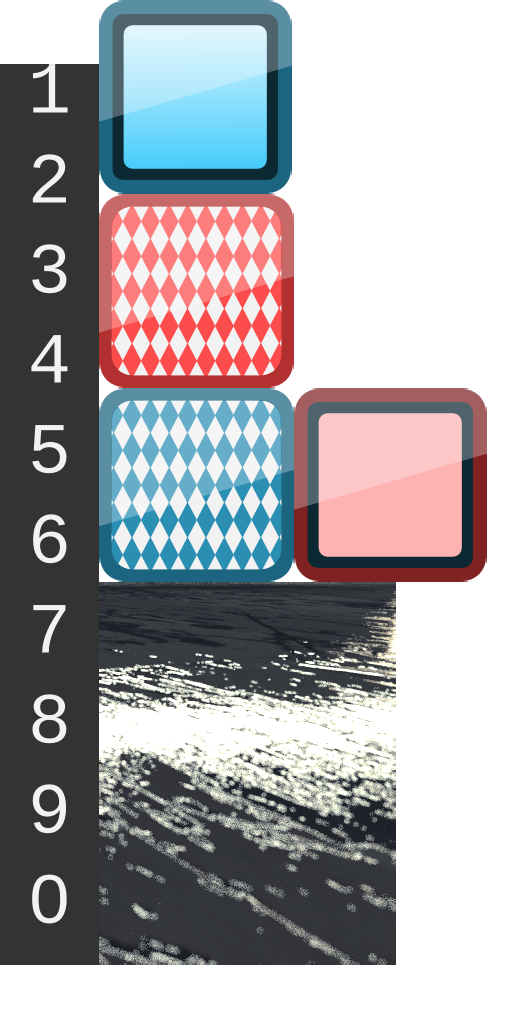
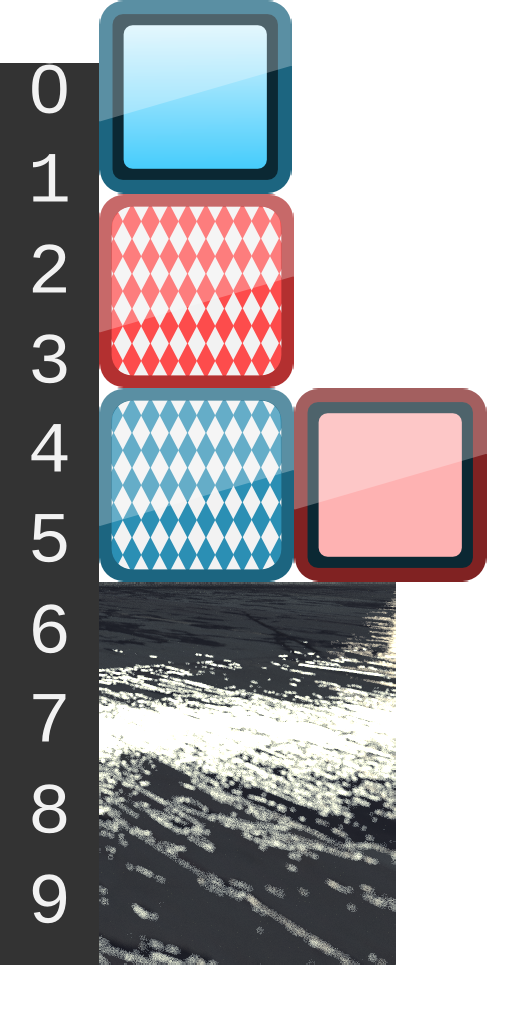
a

diff --git a/Calculate/src/com/simplyapped/calculate/screen/levelintro/StageIntroScreen.java b/Calculate/src/com/simplyapped/calculate/screen/levelintro/StageIntroScreen.java
@@ -85,8 +85,6 @@ public class StageIntroScreen extends DefaultScreen
 	}
 	
 	private Label title;
-	private Label targetTitle;
-	private Label target;
 	private GameState state = GameStateFactory.getInstance();
 
 	private Skin skin = new Skin(Gdx.files.internal("data/stageintroscreen.json"));
@@ -97,6 +95,7 @@ public class StageIntroScreen extends DefaultScreen
 	private float finishWait;
 	private Cell<?> titleCell;
 	private List<Integer> selectedNumbers = new ArrayList<Integer>();
+	private Table targetTable;
 	
 	public StageIntroScreen(DefaultGame game)
 	{
@@ -133,19 +132,11 @@ public class StageIntroScreen extends DefaultScreen
 		title.setAlignment(Align.center);
 		titleCell = back.add(title).expandX().fillX().center().top().pad(CalculateGame.SCREEN_HEIGHT/10f);
 		back.row();
-		targetTitle = new Label("Target Number", skin, "targetTitle");
-		targetTitle.setAlignment(Align.center);
-		targetTitle.setVisible(false);
-		back.add(targetTitle).expandX().fillX().center().top().pad(CalculateGame.SCREEN_HEIGHT/10f);
+		targetTable = new Table();
+		back.add(targetTable).expandX().fillX().center().top().pad(CalculateGame.SCREEN_HEIGHT/10f);
 		back.row();
-		target = new Label("354", skin, "target");
-		target.setAlignment(Align.center);
-		target.setFontScale(2f);
-		target.setVisible(false);
-		back.add(target).expandX().fillX().center().top().pad(CalculateGame.SCREEN_HEIGHT/10f);
 		back.row();
 		back.add().expand().fill();
-		back.debug();
 
 		//cards
 		final int redCardsHeight = (int) (CalculateGame.SCREEN_HEIGHT/1.5f);
@@ -195,13 +186,10 @@ public class StageIntroScreen extends DefaultScreen
 			card.setSize(cardSize, cardSize);
 			stage.addActor(card);
 		}
-		TextureRegion region = skin.getSprite("numberstrip");
-		NumberSpinner spinner = new NumberSpinner(region);
-		spinner.setX(100);
-		stage.addActor(spinner);
+		
 		
 		Gdx.input.setInputProcessor(stage);
-		scene = Scene.GENERATING_TARGET_NUMBER;
+		scene = Scene.SHUFFLING;
 	}
 	
 	@Override
@@ -231,7 +219,7 @@ public class StageIntroScreen extends DefaultScreen
 	private void renderFinished(float delta)
 	{
 		finishWait += delta;
-		if (finishWait > 30)
+		if (finishWait > 8)
 		{
 			game.transitionTo(CalculateGame.GAME_SCREEN, TransitionFixtures.Fade());
 		}
@@ -273,12 +261,29 @@ public class StageIntroScreen extends DefaultScreen
 				nums[i] = selectedNumbers.get(i);
 			}
 			Equation eq = new Equation(nums);
+			while (eq.getTotal() < 100 || eq.getTotal() > 999)
+			{
+				eq = new Equation(nums);
+			}
 			GameStateFactory.getInstance().setCurrentEquation(eq);
 			
+			int targetNumber = 111;//eq.getTotal();
+			Gdx.app.log("target", targetNumber+"");
 			
+			TextureRegion region = skin.getSprite("numberstrip");
+			
+			char[] chars = ("" + targetNumber).toCharArray();
+			Gdx.app.log("eq", eq.toString());
+			for (int i = 0; i < chars.length; i++)
+			{
+				int num = Integer.parseInt(chars[i]+"");
+				int from = i % 2 == 0 ? num : num+20;
+				int to =   i % 2 == 0 ? num+20 : num;
+				NumberSpinner spinner = new NumberSpinner(region, 90, 90, from, to, swingOut, 4);
+				targetTable.add(spinner).expand().fill();
+			}
 
-//			image.setBounds(0, 0, image.getWidth(), 100);
-			//scene = Scene.FINISHED;
+			scene = Scene.FINISHED;
 		}
 	}
 
@@ -290,12 +295,12 @@ public class StageIntroScreen extends DefaultScreen
 			for (TextButton card : redCards)
 			{
 				int xPos = card.getX() < CalculateGame.SCREEN_WIDTH/2 ? -CalculateGame.SCREEN_WIDTH : CalculateGame.SCREEN_WIDTH * 2; 
-				card.addAction(moveTo(xPos, CalculateGame.SCREEN_HEIGHT, 2, pow5));
+				card.addAction(moveTo(xPos, CalculateGame.SCREEN_HEIGHT, 1, pow5));
 			}
 			for (TextButton card : blueCards)
 			{
 				int xPos = card.getX() < CalculateGame.SCREEN_WIDTH/2 ? -CalculateGame.SCREEN_WIDTH : CalculateGame.SCREEN_WIDTH * 2; 
-				card.addAction(moveTo(xPos, 0, 2, pow5));
+				card.addAction(moveTo(xPos, 0, 1, pow5));
 			}
 			scene = Scene.GENERATING_TARGET_NUMBER;
 		}

diff --git a/Calculate/src/com/simplyapped/libgdx/ext/scene2d/NumberSpinner.java b/Calculate/src/com/simplyapped/libgdx/ext/scene2d/NumberSpinner.java
@@ -1,44 +1,70 @@
 package com.simplyapped.libgdx.ext.scene2d;
 
-import com.badlogic.gdx.Gdx;
 import com.badlogic.gdx.graphics.g2d.SpriteBatch;
 import com.badlogic.gdx.graphics.g2d.TextureRegion;
 import com.badlogic.gdx.math.Interpolation;
-import com.badlogic.gdx.scenes.scene2d.Actor;
-import com.badlogic.gdx.scenes.scene2d.actions.FloatAction;
 import com.badlogic.gdx.scenes.scene2d.actions.IntAction;
+import com.badlogic.gdx.scenes.scene2d.ui.Widget;
 
-public class NumberSpinner extends Actor
+public class NumberSpinner extends Widget
 {
 	private IntAction action;
-	private int a;
 	private TextureRegion numberstrip;
+	private int viewportHeight;
+	private int height;
 
-	public NumberSpinner(TextureRegion numberstrip)
+	public NumberSpinner(TextureRegion numberstrip, int viewportHeight, int numberHeight, int from, int to, Interpolation interpolation, int duration)
 	{
+		this.height = numberstrip.getRegionHeight();
 		this.numberstrip = numberstrip;
-		action = new IntAction(0, 500);
-		action.setInterpolation(Interpolation.swingOut);
-		action.setDuration(2f);
+		this.viewportHeight = viewportHeight;
+		int offset = numberHeight/4;
+		action = new IntAction((from * numberHeight) - offset, (to * numberHeight) - offset);
+		action.setInterpolation(interpolation);
+		action.setDuration(duration);
 		getActions().add(action);
 	}
 	
 	@Override
 	public void draw(SpriteBatch batch, float parentAlpha)
 	{
-		int heightOfANumber = 100;
+		int position = action.getValue();
 		
-		TextureRegion region = new TextureRegion(
+		position =  position % height;
+		while (position<=0)
+		{
+			position+=height; // allows for spinning off the top of the region (just start again at the top, which is taken care of)
+		}
+		
+		TextureRegion regionMain = new TextureRegion(
 				numberstrip,
 				0,
-				action.getValue(),
+				position,
 				numberstrip.getRegionWidth(),
-				heightOfANumber);
+				viewportHeight);
+		
 		batch.draw(
-				region,
+				regionMain,
 				getX(),
 				getY(), 
 				numberstrip.getRegionWidth(),
-				heightOfANumber);
+				viewportHeight);
+		
+		// deal with the case where the end of the strip joins the start of a new strip
+		if (position > height - viewportHeight)
+		{
+			TextureRegion extraRegion = new TextureRegion(
+					numberstrip,
+					0,
+					0,
+					numberstrip.getRegionWidth(),
+					position - (height - viewportHeight));
+			batch.draw(
+					extraRegion,
+					getX(),
+					getY(), 
+					numberstrip.getRegionWidth(),
+					position - (height - viewportHeight));
+		}
 	}
 }
